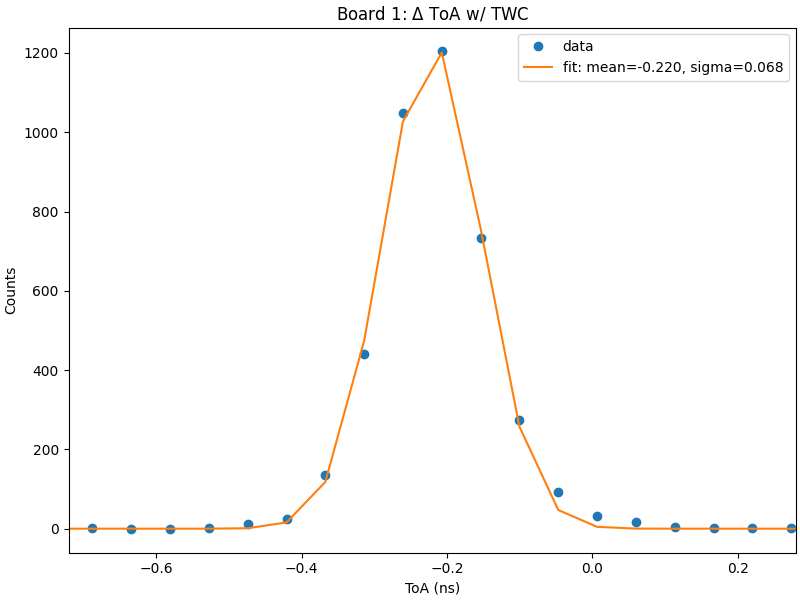
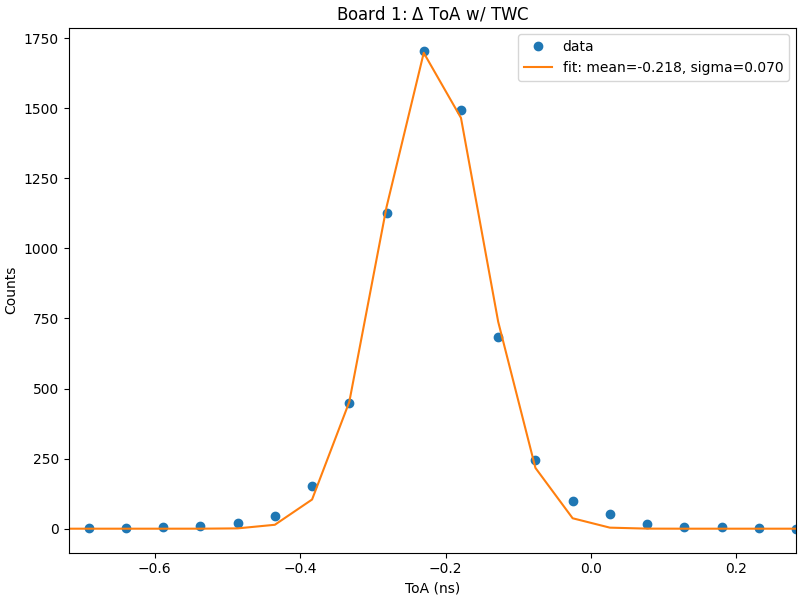
update

diff --git a/twc_with_delta_toa.py b/twc_with_delta_toa.py
@@ -40,7 +40,10 @@ def plotFit(ax, data, v1, v2, popt, title, xtitle, ytitle):
     if ax is not None:
         plt.sca(ax)
     ax.plot(data[v1].values, quad_func(data[v1].values, *popt), 'g--', label='fit: a=%.3f, b=%.3f, c=%.3f' % tuple(popt))
-    plt.hist2d(data[v1], data[v2], bins=[100,100], cmap=plt.cm.jet, cmin=1)
+    # Make bin width 0.05 ns
+    v1_bins = int((data[v1].max()-data[v1].min())/0.05)
+    v2_bins = int((data[v2].max()-data[v2].min())/0.05)
+    plt.hist2d(data[v1], data[v2], bins=[v1_bins,v2_bins], cmap=plt.cm.jet, cmin=1)
     ax.set_title(title)
     ax.set_xlabel(xtitle, fontsize=13)
     ax.set_ylabel(ytitle, fontsize=13)
@@ -95,9 +98,9 @@ def main():
     # Make lists for cuts
     # toa_code lower, toa_code upper, tot_code lower, tot_code upper, cal_code lower
     # and cal_code upper limits
-    b0_cuts = [150, 300, 40, 70, 120, 140]
-    b1_cuts = [150, 300, 50, 80, 120, 140]
-    b3_cuts = [150, 300, 60, 80, 120, 140]
+    b0_cuts = [100, 250, 30, 75, 120, 140]
+    b1_cuts = [100, 250, 45, 85, 120, 140]
+    b3_cuts = [100, 250, 50, 90, 120, 140]
     pd.options.mode.chained_assignment = None
 
     b0v, _ = np.histogram(b0_data['tot'], bins=200, range=(0,20))
